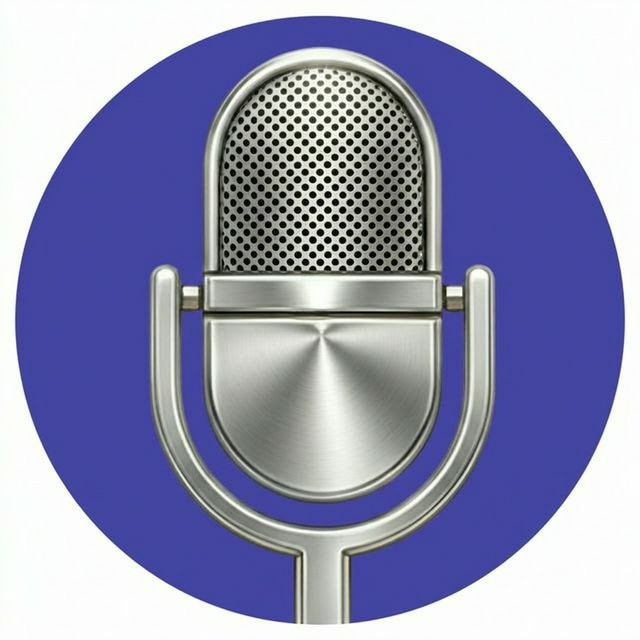
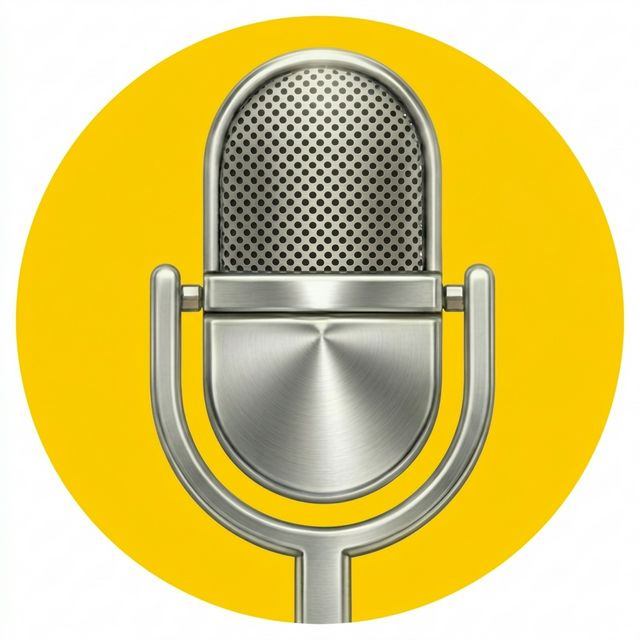
fix: 마이크 아이콘 선명한 노란색 배경 적용 및 위젯 경로 복구

diff --git a/lib/widgets/simplified_input_widget.dart b/lib/widgets/simplified_input_widget.dart
@@ -649,7 +649,7 @@ class MeshMicIcon extends StatelessWidget {
       ),
       child: Center(
         child: Image.asset(
-          'assets/icon_mic_charcoal.png',
+          'assets/icon_mic.png',
           width: size * 0.9,
           height: size * 0.9,
           fit: BoxFit.contain,
